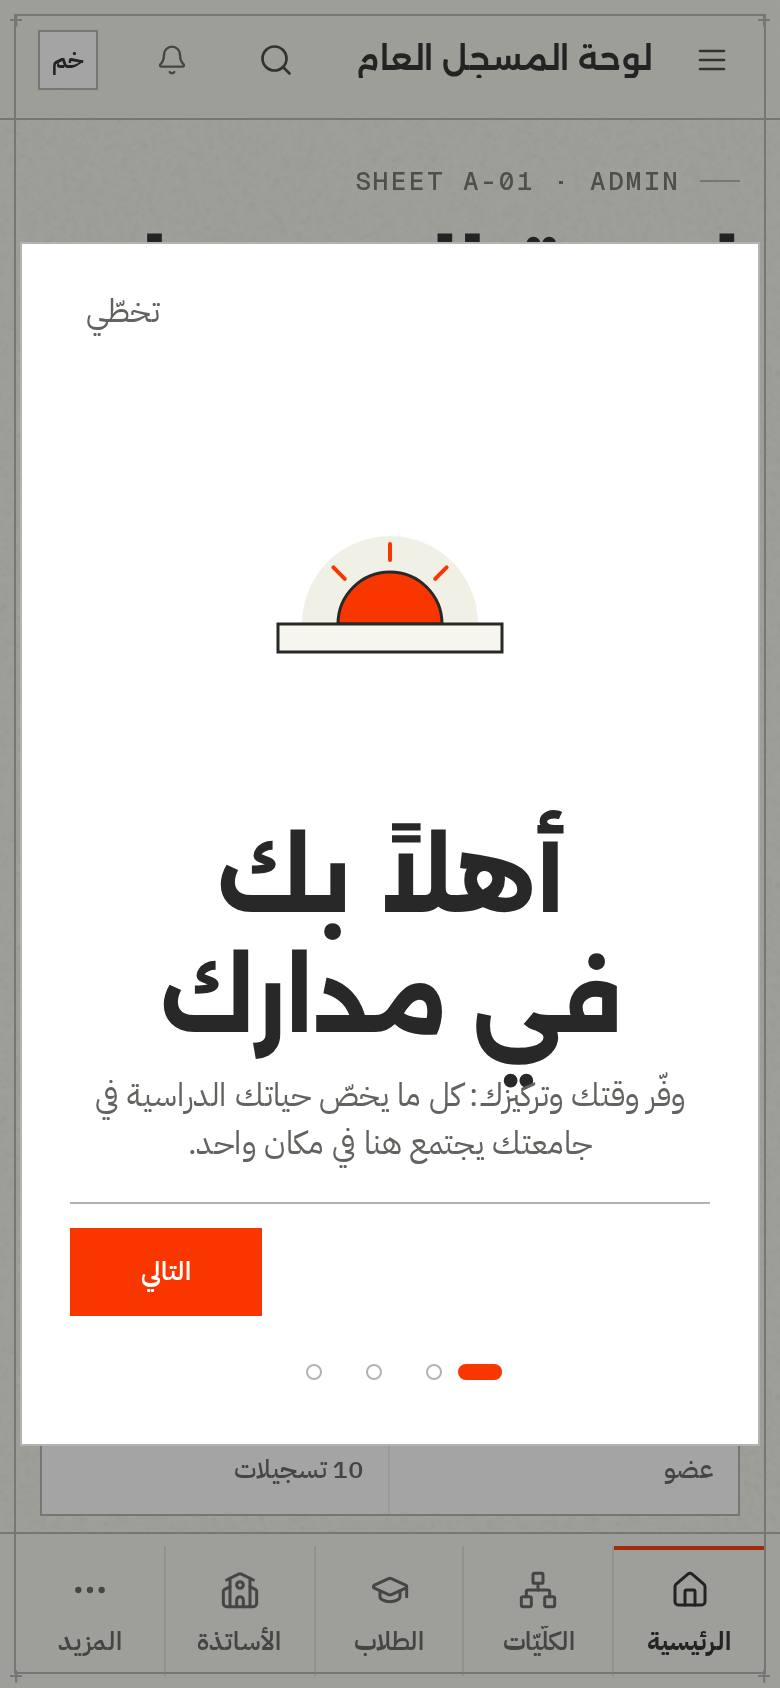
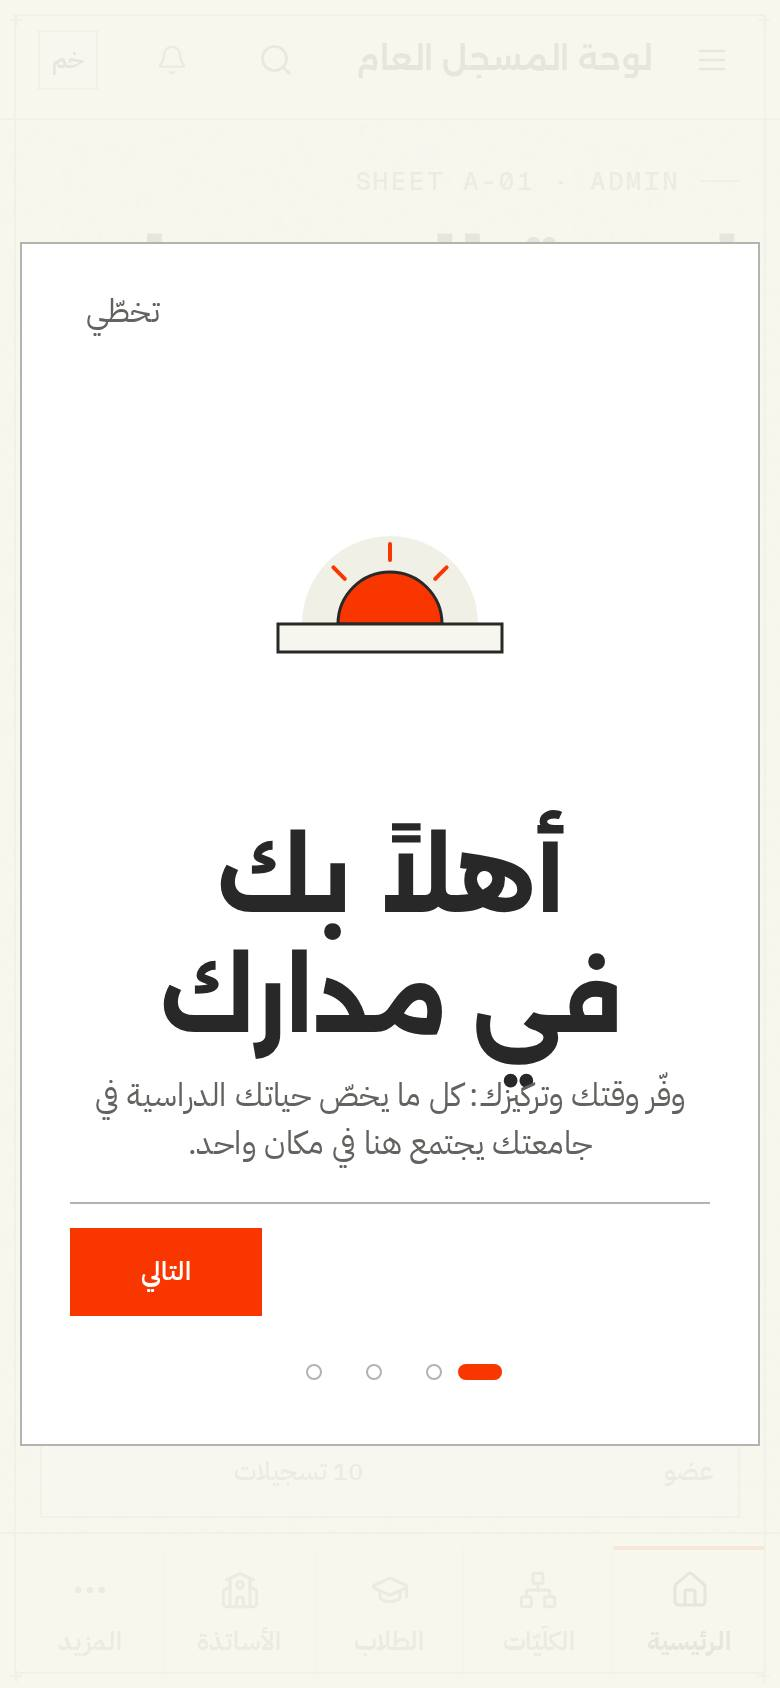
R320 cycle-3 evidence — the tour veil verified FIXED on production: computed overlay background rgba(246,246,238,0.92) on the onboarding tour at 390 (was 40% ink) · VLM after-review: no glyph stubs above the card, clean uniform scrim, sharp card edge, 9/10 (was 6/10) · shot registrar-tour-after-veil

diff --git a/audits/evidence/r320/accounts-production.md b/audits/evidence/r320/accounts-production.md
@@ -60,11 +60,14 @@ form fields.
   unreadable glyph stubs (measured: `pf-page-title` t=113 vs `modal-card`
   t=121 at 390). Fixed the same cycle: the tour overlay now carries the
   Heron menu scrim (`--glass-bg-strong`, paper/ink @92 %) —
-  `.has-shell .modal-overlay:has(.onboarding-flow)` in `r305-shell.css` §7,
+  `.modal-overlay:has(.onboarding-flow)` in `r305-shell.css` §7,
   belt-pinned in `OnboardingFlow.test.tsx` (rule presence + token 0.92 in
-  both themes). Before/after: `registrar-top-390.jpg` (veil 40 %) vs
-  `registrar-tour-after-veil-390.jpg` (92 % scrim, stubs gone — verified
-  after the fix deploy).
+  both themes). First attempt (a9e071a3) carried a `.has-shell` prefix and
+  never matched — the modal PORTAL renders at body level, outside the
+  shell container (measured: rule in the built CSS, computed veil still
+  40 %); fixed in 5b7369f9 (prefix dropped, belt re-pinned). After-verify
+  on production: computed veil `rgba(246,246,238,0.92)` ✓ · VLM: no
+  stubs, clean uniform scrim, card edge clean, 9/10 (was 6/10).
 - `registrar-dashboard-390.jpg`: the clean dashboard after dismissing the
   tour (no mechanical text clip found by the DOM audit — the only
   `text-outside-box` hits are the four deliberate `sheet-mark` ± corner
